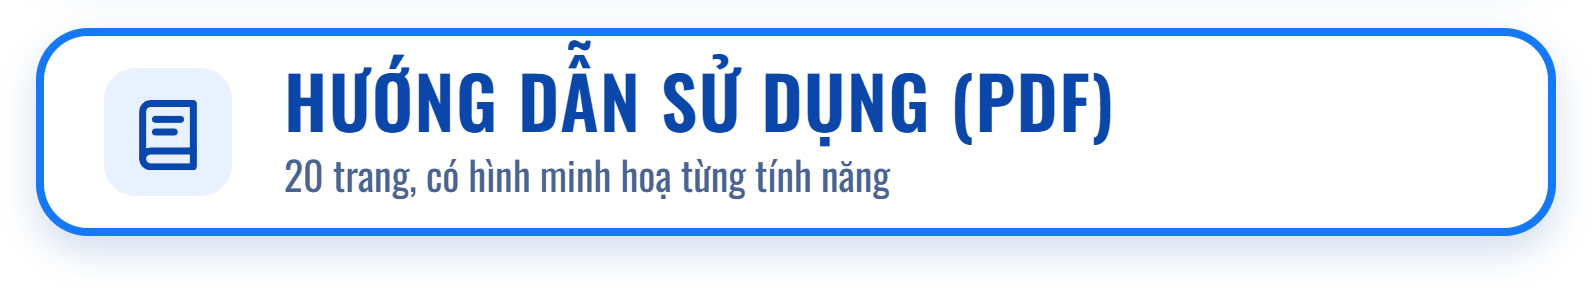
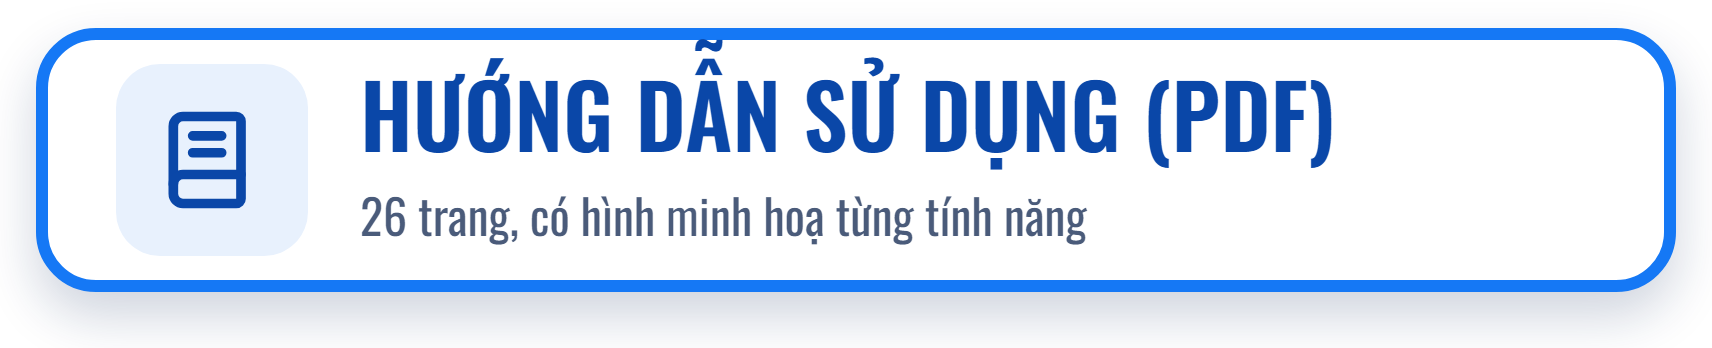
README: ô tải Windows / Linux hai bên (Việt + Anh), mục cài đặt Linux, nút hướng dẫn mới

Changed region(s): [[0.0308, 0.0625, 0.9849, 0.7188], [0.0, 0.6562, 0.9849, 0.8438], [0.0, 0.1562, 0.0308, 0.25]]

diff --git a/README.md b/README.md
@@ -10,22 +10,27 @@
 
 <p align="center">
   <b>Vở ghi dạy học Toán – Lý – Hoá – Sinh</b><br>
-  Miễn phí · Không cần mạng · Dành cho máy tính Windows 10 / 11
+  Miễn phí · Không cần mạng · Dành cho máy tính Windows 10 / 11 và Linux
 </p>
 
 <p align="center">
   <a href="https://github.com/chuyenanhtutorialsfw-ux/CAT-Pad/releases/latest"><img src="https://img.shields.io/github/v/release/chuyenanhtutorialsfw-ux/CAT-Pad?label=phi%C3%AAn%20b%E1%BA%A3n%20m%E1%BB%9Bi%20nh%E1%BA%A5t&color=1578f5" alt="Phiên bản mới nhất"></a>
 </p>
 
+<table align="center">
+  <tr>
+    <td align="center" width="50%"><a href="https://github.com/chuyenanhtutorialsfw-ux/CAT-Pad/releases/latest/download/CAT-Pad-Setup.exe"><img src="anh/tai-windows.png" alt="TẢI CHO WINDOWS — bấm vào đây" width="400"></a><br><sub>Windows 10 / 11 · Không cài được? <a href="https://github.com/chuyenanhtutorialsfw-ux/CAT-Pad/releases/latest/download/CAT-Pad-1.1.0-win-x64.zip">Bản .zip chạy ngay</a></sub></td>
+    <td align="center" width="50%"><a href="https://github.com/chuyenanhtutorialsfw-ux/CAT-Pad/releases/latest/download/CAT-Pad-linux-amd64.deb"><img src="anh/tai-linux.png" alt="TẢI CHO LINUX — bấm vào đây" width="400"></a><br><sub>Ubuntu / Debian / Mint (.deb) · Bản Linux khác: <a href="https://github.com/chuyenanhtutorialsfw-ux/CAT-Pad/releases/latest/download/CAT-Pad-linux-x86_64.AppImage">AppImage</a></sub></td>
+  </tr>
+</table>
+
 <p align="center">
-  <a href="https://github.com/chuyenanhtutorialsfw-ux/CAT-Pad/releases/latest/download/CAT-Pad-Setup.exe"><img src="anh/nut-tai-cat-pad.png" alt="TẢI CAT PAD MIỄN PHÍ — bấm vào đây" width="480"></a>
-  <br>
   <a href="https://github.com/chuyenanhtutorialsfw-ux/CAT-Pad/releases/latest/download/CAT-Pad-Huong-dan-su-dung.pdf"><img src="anh/nut-huong-dan.png" alt="Hướng dẫn sử dụng (PDF)" width="480"></a>
 </p>
 
 <p align="center">
-  Nút xanh luôn tải <b>bản mới nhất</b> — <b>không cần tài khoản, không cần đăng nhập</b>.<br>
-  <sub>Users outside Vietnam: <a href="#english"><b>read in English</b></a> · <a href="https://github.com/chuyenanhtutorialsfw-ux/CAT-Pad/releases/latest/download/CAT-Pad-Setup.exe">download the installer</a></sub>
+  Hai nút tải luôn tải <b>bản mới nhất</b> — <b>không cần tài khoản, không cần đăng nhập</b>.<br>
+  <sub>Users outside Vietnam: <a href="#english"><b>read in English</b></a> · <a href="https://github.com/chuyenanhtutorialsfw-ux/CAT-Pad/releases/latest/download/CAT-Pad-Setup.exe">Windows</a> · <a href="https://github.com/chuyenanhtutorialsfw-ux/CAT-Pad/releases/latest/download/CAT-Pad-linux-amd64.deb">Linux</a></sub>
 </p>
 
 ---
@@ -33,6 +38,7 @@
 ## Có gì mới
 
 **Bản 1.1.0** (20/11/2026)
+- **Có bản Linux** (mới): gói `.deb` cho Ubuntu / Debian / Linux Mint và `AppImage` cho mọi bản Linux 64-bit — nút cam **TẢI CHO LINUX** ở trên.
 - **Công cụ Tiếng Anh** (nút **T.Anh**): chèn **tệp nghe MP3** vào trang rồi bấm ▶ để phát — có tua 5 giây, đổi tốc độ, lặp đoạn A–B; **đọc mẫu tiếng Anh** bằng giọng của Windows; **bảng phiên âm IPA**; **bài điền từ vào chỗ trống**.
 - **Nút "Cập nhật bản mới"** tự hiện ở góc trên bên phải khi có bản mới (tắt được trong Cài đặt).
 - **Chọn vùng kiểu mới:** kéo khung bao trọn các nét, 4 nút tròn ở góc để đổi cỡ, thanh xanh có Cắt / Chép / Dán / Nhân bản / Xoá; chọn được cả hình dựng động.
@@ -54,9 +60,9 @@
 
 ---
 
-## Cài đặt trong 3 bước
+## Cài đặt trong 3 bước (Windows)
 
-**Bước 1 — Tải về.** Bấm nút xanh **TẢI CAT PAD MIỄN PHÍ** ở trên. Tệp `CAT-Pad-Setup.exe` (khoảng 118 MB) được tải về thư mục **Tải xuống (Downloads)**.
+**Bước 1 — Tải về.** Bấm nút xanh **TẢI CHO WINDOWS** ở trên. Tệp `CAT-Pad-Setup.exe` (khoảng 118 MB) được tải về thư mục **Tải xuống (Downloads)**.
 > Nếu trình duyệt báo tệp "không thường được tải xuống", bấm vào dấu **…** cạnh tệp → chọn **Giữ lại (Keep)**.
 
 **Bước 2 — Mở tệp vừa tải.** Bấm đúp vào tệp `CAT-Pad-Setup.exe`.
@@ -67,6 +73,20 @@
 Lần đầu mở, CAT Pad tự tạo một sổ mới — thầy cô có thể viết ngay. Xem thêm cách dùng từng công cụ trong **[Hướng dẫn sử dụng (PDF)](https://github.com/chuyenanhtutorialsfw-ux/CAT-Pad/releases/latest/download/CAT-Pad-Huong-dan-su-dung.pdf)**.
 
 Nút tải không hoạt động? Mở **[trang tải về](https://github.com/chuyenanhtutorialsfw-ux/CAT-Pad/releases/latest)** rồi bấm vào tệp `CAT-Pad-Setup.exe` trong mục **Assets**.
+
+## Cài đặt trên Linux
+
+**Ubuntu, Debian, Linux Mint** — bấm nút cam **TẢI CHO LINUX** ở trên để tải `CAT-Pad-linux-amd64.deb` (khoảng 99 MB), bấm đúp vào tệp để mở bằng trình cài phần mềm → **Cài đặt**. Hoặc mở Terminal trong thư mục Tải xuống và chạy:
+
+```bash
+sudo apt install ./CAT-Pad-linux-amd64.deb
+```
+
+Sau đó mở **CAT Pad** trong menu ứng dụng.
+
+**Bản Linux khác** (Fedora, Arch…) — tải [`CAT-Pad-linux-x86_64.AppImage`](https://github.com/chuyenanhtutorialsfw-ux/CAT-Pad/releases/latest/download/CAT-Pad-linux-x86_64.AppImage) (khoảng 123 MB), chuột phải → **Thuộc tính** → bật **Cho phép chạy như chương trình** (hoặc `chmod +x CAT-Pad-linux-x86_64.AppImage`), rồi bấm đúp. Nếu không mở được, cài thêm gói FUSE: `sudo apt install libfuse2t64` (Ubuntu 24.04) hoặc `libfuse2` (Ubuntu 22.04).
+
+Bản Linux chưa tự cài đè khi có bản mới: nút **Cập nhật bản mới** sẽ mở trang tải về để thầy cô tải bản mới.
 
 ---
 
@@ -85,13 +105,13 @@ Nút tải không hoạt động? Mở **[trang tải về](https://github.com/c
 
 ## Yêu cầu máy tính
 
-- Windows 10 hoặc 11, bản 64-bit
+- Windows 10 hoặc 11, bản 64-bit; hoặc Linux 64-bit (Ubuntu 22.04 trở lên, Debian 12, Linux Mint 21…)
 - Khoảng 400 MB dung lượng trống
 - Dùng được chuột, bút cảm ứng hoặc màn hình cảm ứng
 
 ## Dữ liệu và sao lưu
 
-- Sổ ghi được lưu tự động trong máy, tại `%APPDATA%\CAT Pad`. Gỡ cài đặt hoặc cài bản mới **không** xoá sổ.
+- Sổ ghi được lưu tự động trong máy, tại `%APPDATA%\CAT Pad` (Linux: `~/.config/CAT Pad`). Gỡ cài đặt hoặc cài bản mới **không** xoá sổ.
 - Chuyển sang máy khác hoặc sao lưu thủ công: mở sổ → Trình đơn ≡ → **Lưu thành tệp .catpad**; ở máy mới chọn **Mở tệp .catpad…**.
 - Mỗi lần mở app, kho sổ được tự sao lưu vào `%APPDATA%\CAT Pad\sao-luu-so\` (giữ 5 bản gần nhất và luôn giữ bản lớn nhất).
 
@@ -102,12 +122,15 @@ Trong [trang tải về](https://github.com/chuyenanhtutorialsfw-ux/CAT-Pad/rele
 | Tệp | Dùng khi |
 | --- | --- |
 | `CAT-Pad-<phiên bản>-win-x64.zip` | Bản chạy ngay không cần cài: giải nén ra ổ cứng rồi mở `CAT Pad.exe` (không tự cập nhật được). |
+| `CAT-Pad-linux-amd64.deb`, `CAT-Pad-linux-x86_64.AppImage` | Bản Linux (xem mục **Cài đặt trên Linux**). |
 | `SHA256SUMS.txt` | Mã SHA-256 để kiểm tra tệp tải về không bị thay đổi. |
 | `update.json`, `update.json.sig` | Thông tin bản cập nhật và chữ ký số của Chuyên Anh Tutorials, dùng cho nút **Kiểm tra cập nhật** trong app (không cần tải). |
 
 ```powershell
 Get-FileHash .\CAT-Pad-Setup.exe -Algorithm SHA256
 ```
+
+Trên Linux: `sha256sum CAT-Pad-linux-amd64.deb`.
 
 ## Giấy phép
 
@@ -123,21 +146,27 @@ Gửi góp ý, báo lỗi tại mục [**Issues**](https://github.com/chuyenanht
 
 ## English
 
+<table align="center">
+  <tr>
+    <td align="center" width="50%"><a href="https://github.com/chuyenanhtutorialsfw-ux/CAT-Pad/releases/latest/download/CAT-Pad-Setup.exe"><img src="anh/download-windows.png" alt="DOWNLOAD FOR WINDOWS — click here" width="400"></a><br><sub>Windows 10 / 11 · Can't install? <a href="https://github.com/chuyenanhtutorialsfw-ux/CAT-Pad/releases/latest/download/CAT-Pad-1.1.0-win-x64.zip">Portable .zip</a></sub></td>
+    <td align="center" width="50%"><a href="https://github.com/chuyenanhtutorialsfw-ux/CAT-Pad/releases/latest/download/CAT-Pad-linux-amd64.deb"><img src="anh/download-linux.png" alt="DOWNLOAD FOR LINUX — click here" width="400"></a><br><sub>Ubuntu / Debian / Mint (.deb) · Other Linux: <a href="https://github.com/chuyenanhtutorialsfw-ux/CAT-Pad/releases/latest/download/CAT-Pad-linux-x86_64.AppImage">AppImage</a></sub></td>
+  </tr>
+</table>
+
 <p align="center">
-  <a href="https://github.com/chuyenanhtutorialsfw-ux/CAT-Pad/releases/latest/download/CAT-Pad-Setup.exe"><img src="anh/download-cat-pad.png" alt="DOWNLOAD CAT PAD FREE — click here" width="480"></a>
-  <br>
-  <a href="https://github.com/chuyenanhtutorialsfw-ux/CAT-Pad/releases/latest/download/CAT-Pad-User-Guide.pdf"><b>📘 User guide in English (PDF)</b></a>
+  <a href="https://github.com/chuyenanhtutorialsfw-ux/CAT-Pad/releases/latest/download/CAT-Pad-User-Guide.pdf"><img src="anh/user-guide-en.png" alt="User guide (PDF)" width="480"></a>
 </p>
 
 <p align="center">
   <b>A free digital notebook for teaching Maths, Physics, Chemistry and Biology</b><br>
-  Free · Works offline · For Windows 10 / 11 PCs<br>
-  The button always downloads the <b>latest version</b> — no account or sign-in needed.
+  Free · Works offline · For Windows 10 / 11 and Linux PCs<br>
+  Both buttons always download the <b>latest version</b> — no account or sign-in needed.
 </p>
 
 ### What's new
 
 **Version 1.1.0** (20 Nov 2026)
+- **Linux version** (new): a `.deb` package for Ubuntu / Debian / Linux Mint and an `AppImage` for any 64-bit Linux — the orange **DOWNLOAD FOR LINUX** button above.
 - **English teaching tools** (the **English** button): insert an **MP3 listening track** and press ▶ to play it — with ±5 s, speed control and A–B repeat; **read aloud** with Windows voices; an **IPA chart**; a **fill-in-the-blank** builder.
 - An **Update available** button appears at the top right when a newer version exists (can be turned off in Settings).
 - **New selection:** drag a box that fully encloses the strokes, round corner handles to resize, a blue bar with Cut / Copy / Paste / Duplicate / Delete; dynamic-geometry figures can be selected too.
@@ -157,9 +186,9 @@ Gửi góp ý, báo lỗi tại mục [**Issues**](https://github.com/chuyenanht
 
 Already have CAT Pad? Open it → Menu ≡ → **Check for updates…** → **Update now**; your notebooks are kept. Notes for every version are on the [releases page](https://github.com/chuyenanhtutorialsfw-ux/CAT-Pad/releases).
 
-### Install in 3 steps
+### Install in 3 steps (Windows)
 
-**Step 1 — Download.** Click the blue **DOWNLOAD CAT PAD FREE** button above. `CAT-Pad-Setup.exe` (about 118 MB) is saved to your **Downloads** folder.
+**Step 1 — Download.** Click the blue **DOWNLOAD FOR WINDOWS** button above. `CAT-Pad-Setup.exe` (about 118 MB) is saved to your **Downloads** folder.
 > If your browser says the file "isn't commonly downloaded", click **…** next to the file → **Keep**.
 
 **Step 2 — Open the file.** Double-click `CAT-Pad-Setup.exe`.
@@ -170,6 +199,20 @@ Already have CAT Pad? Open it → Menu ≡ → **Check for updates…** → **Up
 **Switch the app to English:** CAT Pad starts in Vietnamese. Open Menu ≡ → **Ngôn ngữ / Language** → **English**. The whole interface changes instantly and CAT Pad remembers your choice.
 
 The download button doesn't work? Open the **[download page](https://github.com/chuyenanhtutorialsfw-ux/CAT-Pad/releases/latest)** and click `CAT-Pad-Setup.exe` under **Assets**. The illustrated user guide is available in **[English](https://github.com/chuyenanhtutorialsfw-ux/CAT-Pad/releases/latest/download/CAT-Pad-User-Guide.pdf)** (`CAT-Pad-User-Guide.pdf`) and in Vietnamese (`CAT-Pad-Huong-dan-su-dung.pdf`).
+
+### Install on Linux
+
+**Ubuntu, Debian, Linux Mint** — click the orange **DOWNLOAD FOR LINUX** button above to get `CAT-Pad-linux-amd64.deb` (about 99 MB), double-click it to open it in your software installer → **Install**. Or open a terminal in your Downloads folder and run:
+
+```bash
+sudo apt install ./CAT-Pad-linux-amd64.deb
+```
+
+Then open **CAT Pad** from your applications menu.
+
+**Other distributions** (Fedora, Arch…) — download [`CAT-Pad-linux-x86_64.AppImage`](https://github.com/chuyenanhtutorialsfw-ux/CAT-Pad/releases/latest/download/CAT-Pad-linux-x86_64.AppImage) (about 123 MB), right-click → **Properties** → enable **Allow executing file as program** (or `chmod +x CAT-Pad-linux-x86_64.AppImage`), then double-click it. If it does not start, install FUSE: `sudo apt install libfuse2t64` (Ubuntu 24.04) or `libfuse2` (Ubuntu 22.04).
+
+The Linux version does not install updates by itself yet: the **Update available** button opens the download page so you can get the new version.
 
 ### Features
 
@@ -186,13 +229,13 @@ The download button doesn't work? Open the **[download page](https://github.com/
 
 ### System requirements
 
-- Windows 10 or 11, 64-bit
+- Windows 10 or 11, 64-bit; or 64-bit Linux (Ubuntu 22.04 or later, Debian 12, Linux Mint 21…)
 - About 400 MB of free disk space
 - Works with a mouse, a stylus or a touch screen
 
 ### Data and backup
 
-- Notebooks are saved automatically on your computer, in `%APPDATA%\CAT Pad`. Uninstalling or installing a new version does **not** delete them.
+- Notebooks are saved automatically on your computer, in `%APPDATA%\CAT Pad` (Linux: `~/.config/CAT Pad`). Uninstalling or installing a new version does **not** delete them.
 - To move to another computer or back up manually: open a notebook → Menu ≡ → **Save as .catpad file**; on the new computer choose **Open .catpad file…**.
 - Every time the app starts, your notebooks are backed up to `%APPDATA%\CAT Pad\sao-luu-so\` (the 5 most recent copies, plus the largest one, are kept).
 
@@ -203,12 +246,15 @@ The [download page](https://github.com/chuyenanhtutorialsfw-ux/CAT-Pad/releases/
 | File | Use it when |
 | --- | --- |
 | `CAT-Pad-<version>-win-x64.zip` | Portable version, no installation: unzip it and run `CAT Pad.exe` (cannot update itself). |
+| `CAT-Pad-linux-amd64.deb`, `CAT-Pad-linux-x86_64.AppImage` | Linux version (see **Install on Linux**). |
 | `SHA256SUMS.txt` | SHA-256 checksums to verify that your download has not been altered. |
 | `update.json`, `update.json.sig` | Update information signed by Chuyên Anh Tutorials, used by **Check for updates** in the app (no need to download). |
 
 ```powershell
 Get-FileHash .\CAT-Pad-Setup.exe -Algorithm SHA256
 ```
+
+On Linux: `sha256sum CAT-Pad-linux-amd64.deb`.
 
 ### License
 
